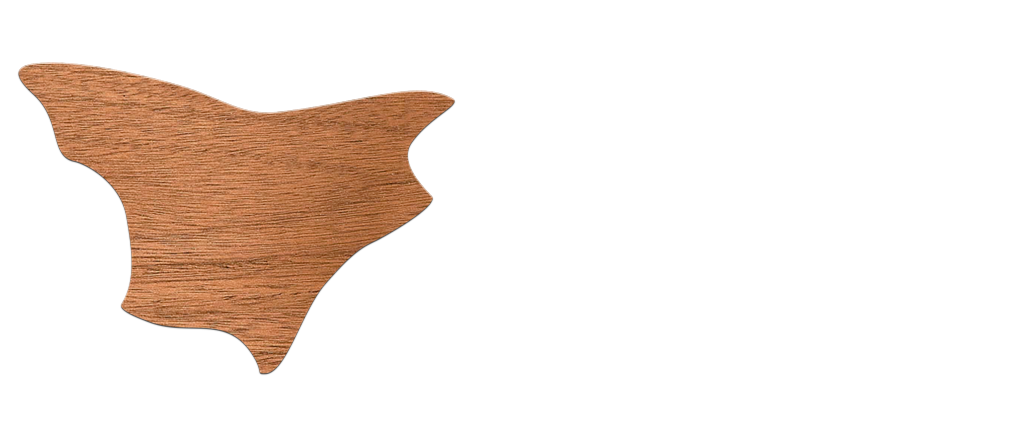
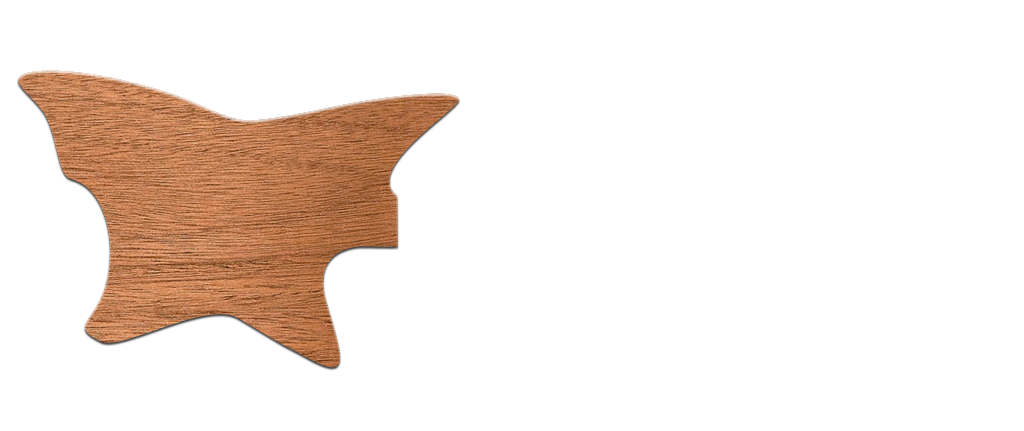
add modern shark

Changed region(s): [[0.0, 0.1206, 0.4688, 0.8747]]

diff --git a/source/js/real-time.js b/source/js/real-time.js
@@ -87,11 +87,11 @@
 		body:  	["walnut", "alder", 		"mahogany"],
 		cap:  	["walnut", "maple", 		"spalted_maple", 	"birdseye_maple", 	"figured_maple"],
 		neck:  	["walnut", "rosewood", 	"ebony", 					"birdseye_maple"],
-		head:  	["walnut", "maple", 		"spalted_maple", 	"birdseye_maple"],
+		head:  	["walnut", "maple", 		"spalted_maple", 	"birdseye_maple", "none"],
 		hw:  	  ["chrome"],
 	}
 
-	var Build = ["manta", "shark"]
+	var Build = ["manta", "shark", "modern_shark"]
 
 	$('#aReset').on('click', function(){
 		resetParts()

diff --git a/source/js/builder.js b/source/js/builder.js
@@ -141,7 +141,7 @@ $(function(){
 
   // Set global build var  
   function setBuild(build){
-    $BUILD = build.toLowerCase()
+    $BUILD = build.toLowerCase().replace(/\s/g,'_')
   }
 
   // From url
